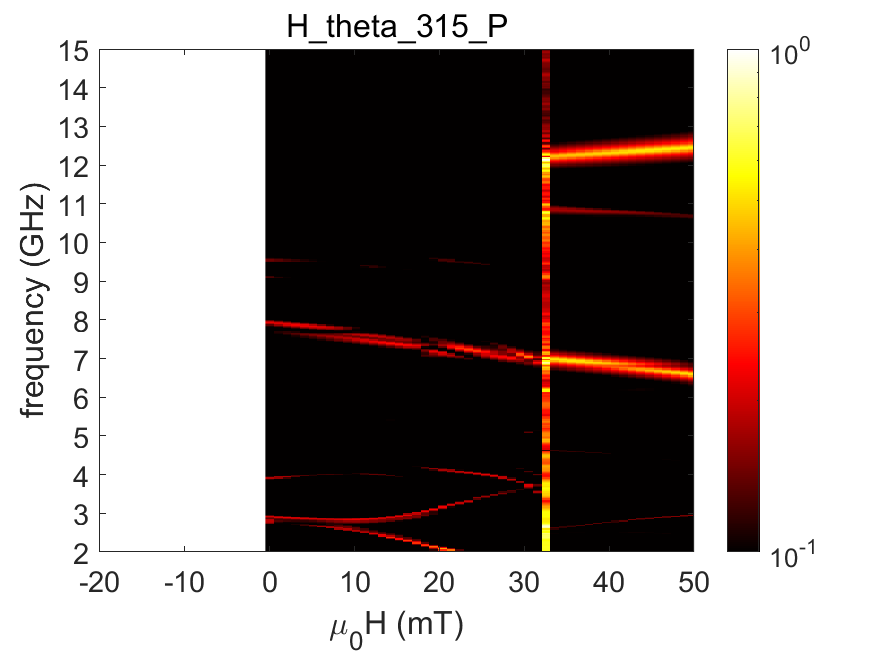
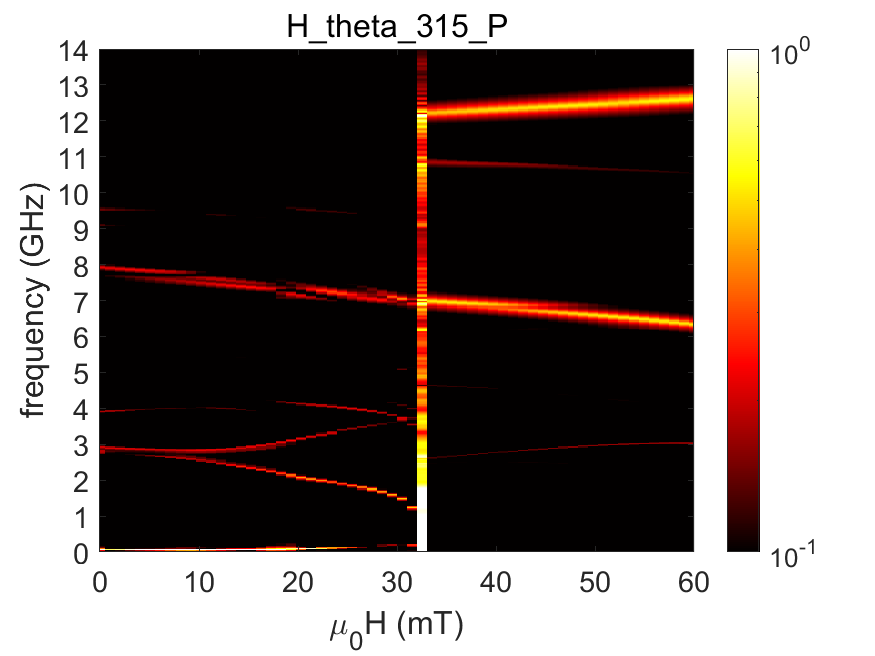
Improved Figure Qualities

diff --git a/Scripts/Meeting_19_Jul_2023/FMRHEATMAPUSER.m b/Scripts/Meeting_19_Jul_2023/FMRHEATMAPUSER.m
@@ -21,8 +21,8 @@ save_png=0;
 
 comp_sep=0;
 
-fmin=2;fmax=15;fres=1;
-Xmin=-20;Xmax=50;Xres=10;
+fmin=0;fmax=14;fres=1;
+Xmin=0;Xmax=60;Xres=10;
 %Xmin=0;Xmax=700;Xres=40;
 cmin=0;cmax=1;
 set(0,'defaultfigurecolor',[1 1 1])

diff --git a/Scripts/Meeting_19_Jul_2023/FMR_HEATMAP_NEW.m b/Scripts/Meeting_19_Jul_2023/FMR_HEATMAP_NEW.m
@@ -25,7 +25,7 @@ regionname={'T','B',};
 map='hot';
 fonty=14;
 fmin=0;fmax=5;fres=1;
-Xmin=-50;Xmax=50;Xres=10;
+Xmin=0;Xmax=60;Xres=10;
 cmin=0;cmax=1;c_log=1;
 
 % PLOT ALL FIELDS
